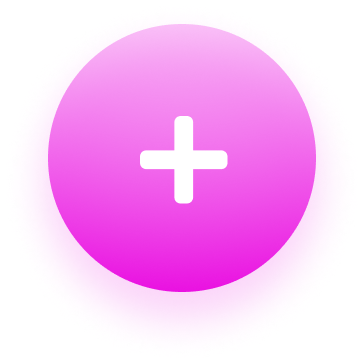
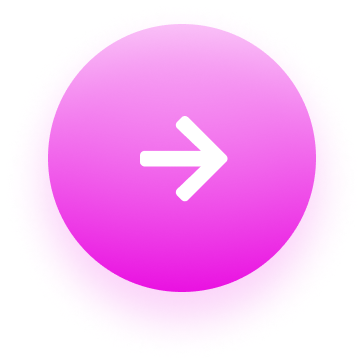
launch

Changed region(s): [[0.3929, 0.3022, 0.6346, 0.5742]]

diff --git a/src/pages/launch/launch.vue b/src/pages/launch/launch.vue
@@ -1,0 +1,32 @@
+<template>
+  <view>
+    <image
+      @tap="goHome"
+      class="w-24 absolute top-10 right-5"
+      src="/static/images/skip.png"
+      mode="widthFix"
+    />
+
+    <image class="w-full mt-24" src="/static/images/hero.png" mode="widthFix" />
+
+    <view class="text-2xl w-full text-center py-5">Manage Your Tasks</view>
+    <view class="w-full text-center text-md px-10 text-gray-600"
+      >Organize all your to-do's analyst your projects. Color tag them to set priority and
+      categories
+    </view>
+
+    <view @tap="goHome" class="text-center py-5">
+      <image class="w-28" src="/static/images/next.png" mode="widthFix" />
+    </view>
+  </view>
+</template>
+
+<script lang="ts" setup>
+const goHome = () => {
+  uni.switchTab({
+    url: '/pages/index/index',
+  })
+}
+</script>
+
+<style lang="scss" scoped></style>
